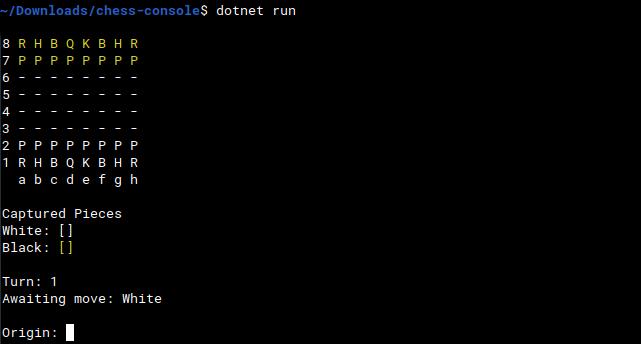
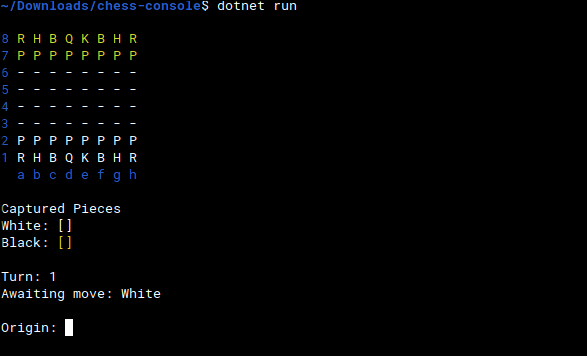
Updated

Changed region(s): [[0.0, 0.0872, 0.276, 1.0], [0.0, 0.0, 0.5213, 0.0581], [0.1533, 0.3198, 0.2147, 0.3488]]

diff --git a/Screen.cs b/Screen.cs
@@ -62,9 +62,12 @@ namespace chess_console
 
         public static void printGameBoard(GameBoard board)
         {
+            ConsoleColor aux = Console.ForegroundColor;
             for(int i = 0; i < board.lines; i++)
-            {
+            {                  
+                Console.ForegroundColor = ConsoleColor.Blue;
                 Console.Write(8 - i + " ");
+                Console.ForegroundColor = aux;
 
                 for(int j = 0; j < board.columns; j++)
                 {                       
@@ -72,7 +75,9 @@ namespace chess_console
                 }
                 Console.WriteLine();
             }
+            Console.ForegroundColor = ConsoleColor.Blue;
             Console.WriteLine("  a b c d e f g h");
+            Console.ForegroundColor = aux;
         }
 
         public static void printGameBoard(GameBoard board, bool[,] possiblePositions)

diff --git a/README.md b/README.md
@@ -2,31 +2,45 @@
 Famoso jodo de xadrez, feito com C#, disponível para jogar pelo terminal.
 No qual o tabuleiro é organizado em linhas de 8 a 1 e colunas de "a" até "h", sendo possível ter o controle de quais peças foram capturadas, qual turno se encontra e de qual jogador é a vez.
 
+## Peças
+* R (_ROOK_) : TORRE
+* h (_KNIGHT_/_HORSE_) : CAVALO
+* B (BISHOP) : BISPO
+* Q (_QUEEN_) : RAINHA/DAMA
+* K (_KING_) : REI
+* P (_PAWN_) : PEÃO
 
 ![chess-console](Images/chess.png)
 
 O jogador indica a peça que deseja mover em _origin_, no estilo batalha naval, desta maneira será indicado para quais lugares a peça poderá mover, o jogador digita o local de destino em _destiny_, dando continuidade ao jogo.
 
-![chess-console](Images/console.png)
+![chess-console](Images/chess-console.png)
 
 # COMO RODAR :joystick:
-### Linux
-Primeiro, certifique-se que o DOTNET está instalado (<a href="https://docs.microsoft.com/pt-br/dotnet/core/install/linux-ubuntu">Clique aqui para baixá-lo</a>).
+## Passo 01
+Faça o download deste repositório como zip e descompacte no lugar desejado.
+![Download](Images/download.png)
 
-Faça o download do repositório e abra a pasta correspondente. Estando com a mesma aberta, clique com o botão direito e em seguida em "Abrir terminal aqui", digite "dotnet run".
+## Passo 02
+Primeiro, certifique-se que o DOTNET está instalado!
+(<a href="https://docs.microsoft.com/pt-br/dotnet/core/install/linux-ubuntu">Clique aqui para baixá-lo (LINUX-UBUNTU)</a>).
+(<a href="https://docs.microsoft.com/pt-br/dotnet/core/install/linux-ubuntu">Clique aqui para baixá-lo (WINDOWS)</a>).
+
+## Passo 03
+### No linux
+Após realizar o download do repositório e dotnet, abra a pasta correspondente. Estando com a mesma aberta, clique com o botão direito, seguidamente, em "Abrir terminal aqui", digite "dotnet run".
 
 ![linux-console](Images/linux.png)
 
 ![linux-console](Images/linux-console.png)
+Está pronto para começar a jogar!
 
-### Windows
-Primeiro, certifique-se que o DOTNET está instalado (<a href="https://docs.microsoft.com/pt-br/dotnet/core/install/windows?tabs=net50">Clique aqui para baixá-lo</a>i).
-
-Faça o download do repositório, logo em seguida abra o pront de comando, digite manualmente o diretório em que a pasta se encontra (Exemplo: _cd Desktop\chess-console-main\chess-console-main_), após isso, escreva "dotnet Run".
+### No windows
+Após realizar o download da pasta e do dotnet, abra o pront de comando e digite manualmente, utilizando o comando _cd_, o diretório em que a pasta se encontra (Exemplo: _cd Desktop\chess-console-main\chess-console-main_), pressione enter e, por fim, escreva "dotnet Run".
 
 ![windows-diretory](Images/windows-diretory.jpeg)
 
 ![windows-console](Images/windows-console.jpeg)
-
+Está pronto para começar a jogar!
 
 ##### Você também pode escolher a IDE de sua preferência.
